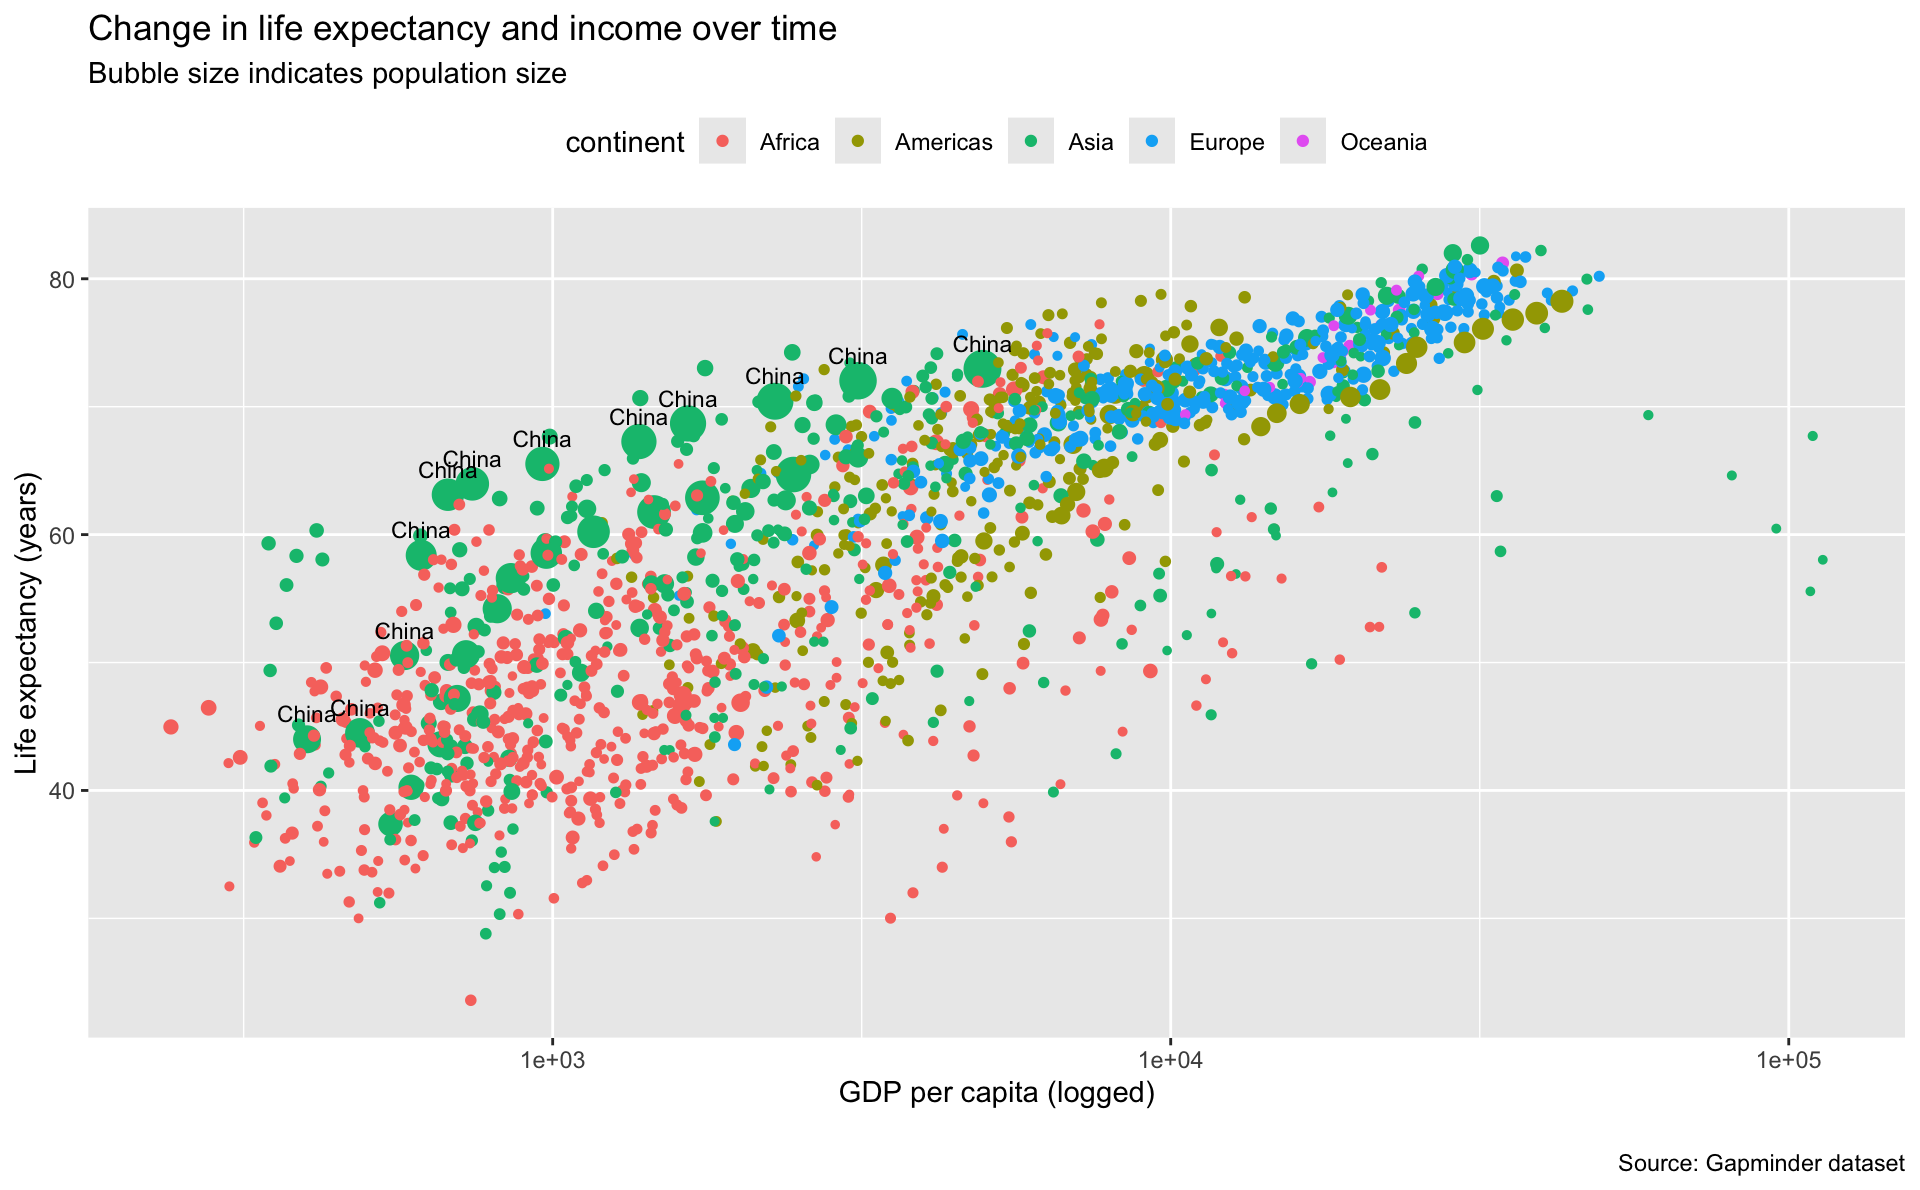
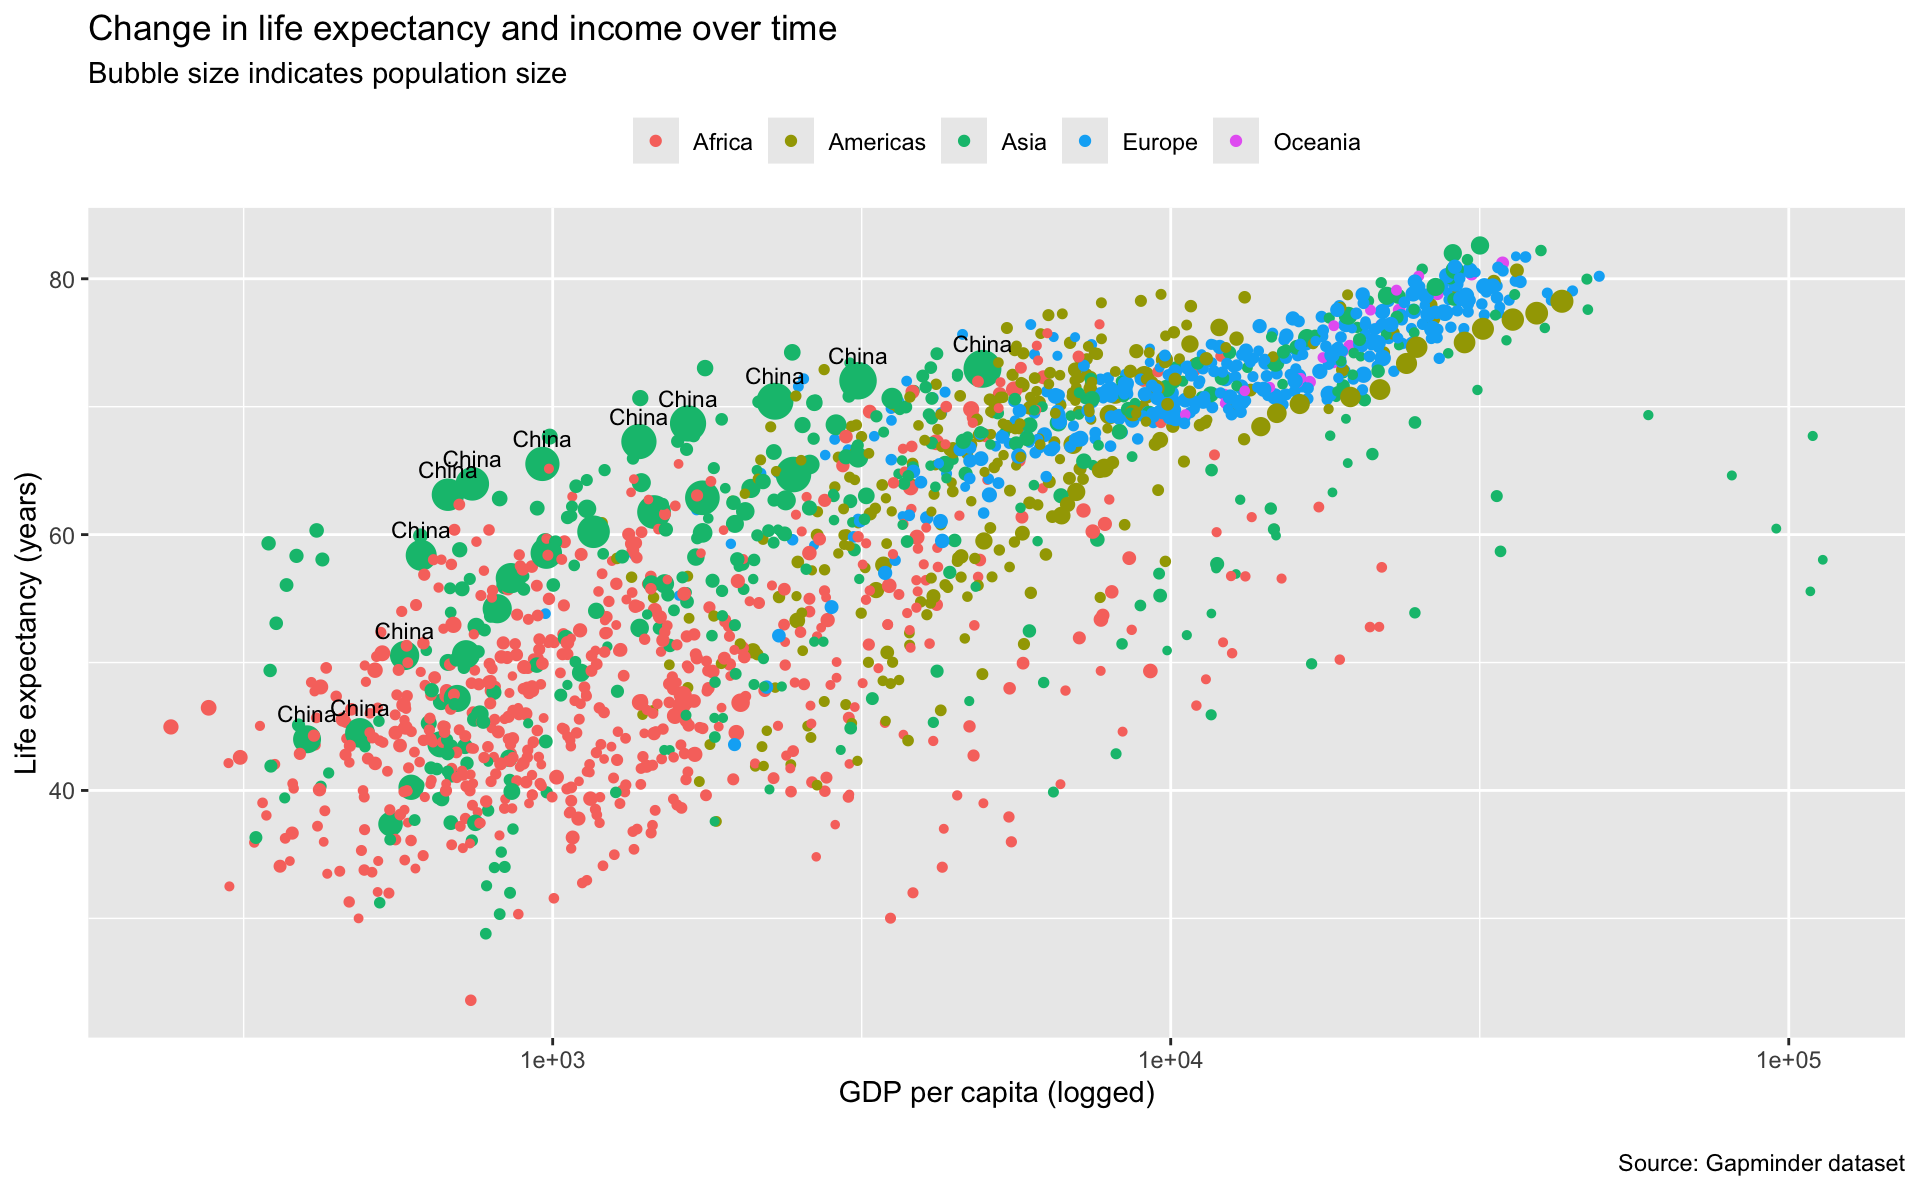
fixing legend title

Changed region(s): [[0.3125, 0.0933, 0.75, 0.1555]]

diff --git a/docs/posts/2017-10-15-gapminder-gganimate/index.html b/docs/posts/2017-10-15-gapminder-gganimate/index.html
@@ -252,8 +252,9 @@ pre > code.sourceCode > span > a:first-child::before { text-decoration: underlin
 <span id="cb2-14"><a href="#cb2-14" aria-hidden="true" tabindex="-1"></a>  <span class="fu">labs</span>(<span class="at">x=</span><span class="st">'GDP per capita (logged)</span><span class="sc">\n</span><span class="st">'</span>,</span>
 <span id="cb2-15"><a href="#cb2-15" aria-hidden="true" tabindex="-1"></a>       <span class="at">y=</span><span class="st">'Life expectancy (years)'</span>,</span>
 <span id="cb2-16"><a href="#cb2-16" aria-hidden="true" tabindex="-1"></a>       <span class="at">caption=</span><span class="st">'Source: Gapminder dataset'</span>) <span class="sc">+</span> </span>
-<span id="cb2-17"><a href="#cb2-17" aria-hidden="true" tabindex="-1"></a>  <span class="fu">theme</span>(<span class="at">legend.position =</span> <span class="st">'top'</span>) <span class="sc">+</span> </span>
-<span id="cb2-18"><a href="#cb2-18" aria-hidden="true" tabindex="-1"></a>  <span class="fu">guides</span>(<span class="at">size=</span><span class="st">'none'</span>)</span></code><button title="Copy to Clipboard" class="code-copy-button"><i class="bi"></i></button></pre></div>
+<span id="cb2-17"><a href="#cb2-17" aria-hidden="true" tabindex="-1"></a>  <span class="fu">theme</span>(<span class="at">legend.position =</span> <span class="st">'top'</span>,</span>
+<span id="cb2-18"><a href="#cb2-18" aria-hidden="true" tabindex="-1"></a>        <span class="at">legend.title =</span> <span class="fu">element_blank</span>()) <span class="sc">+</span> </span>
+<span id="cb2-19"><a href="#cb2-19" aria-hidden="true" tabindex="-1"></a>  <span class="fu">guides</span>(<span class="at">size=</span><span class="st">'none'</span>)</span></code><button title="Copy to Clipboard" class="code-copy-button"><i class="bi"></i></button></pre></div>
 <div class="cell-output-display">
 <div class="quarto-figure quarto-figure-center">
 <figure class="figure">

diff --git a/docs/posts.html b/docs/posts.html
@@ -241,7 +241,7 @@ Jul 15, 2024
 </div>
 </a>
 </div>
-<div class="g-col-1" data-index="1" data-categories="R,data-viz,tidyverse,gganimate" data-listing-date-sort="1508047200000" data-listing-file-modified-sort="1721327402948" data-listing-date-modified-sort="NaN" data-listing-reading-time-sort="5" data-listing-word-count-sort="955">
+<div class="g-col-1" data-index="1" data-categories="R,data-viz,tidyverse,gganimate" data-listing-date-sort="1508047200000" data-listing-file-modified-sort="1721327645312" data-listing-date-modified-sort="NaN" data-listing-reading-time-sort="5" data-listing-word-count-sort="965">
 <a href="./posts/2017-10-15-gapminder-gganimate/index.html" class="quarto-grid-link">
 <div class="quarto-grid-item card h-100 card-left">
 <p class="card-img-top"><img src="posts/2017-10-15-gapminder-gganimate/index_files/figure-html/fig1-1.png" style="height: 150px;"  class="thumbnail-image card-img"/></p>
